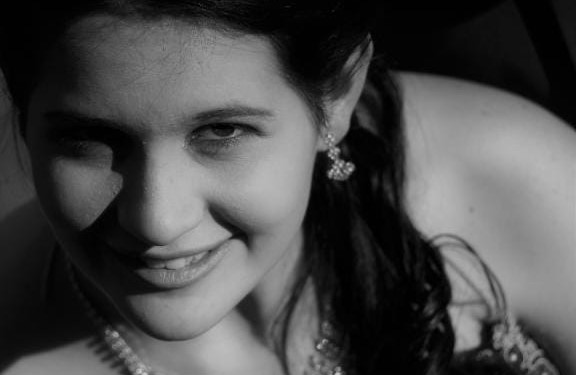
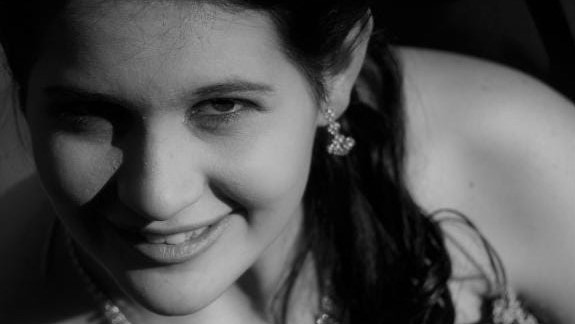
Background

diff --git a/Erica-Kruger-Resume7.html b/Erica-Kruger-Resume7.html
@@ -11,20 +11,25 @@
 
         <header> <!-- State what the webpage is about -->
             <center>
-                <p> <b> The full Curriculum Vitae / Resume of</b></p>
-                <picture id="photographOfMe">
-                    <source media="(max-width: 409px)" srcset="Images/Erica-small.jpg">
-                    <source media="(max-width: 949px)" srcset="Images/Erica-med.jpg">
-                    <img src="Images/Erica-Large.jpg" alt="Photograph of Erica Kruger" >
-                </picture>
-                
-               
-                     <h1 class="headerA">Erica&nbspKruger </h1>    
+                <div>
+                    <p> <b> The full Curriculum Vitae / Resume of</b></p>
+                </div>
+                <div>
+                    <picture id="photographOfMe">
+                        <source media="(max-width: 409px)" srcset="Images/Erica-small.jpg" width="70%">
+                        <source media="(max-width: 949px)" srcset="Images/Erica-med.jpg" width="70%">
+                        <img src="Images/Erica-Large.jpg" alt="Photograph of Erica Kruger" width="70%" >
+                    </picture>
+                </div>
+               <div>
+                <h1 class="headerA">Erica&nbspKruger </h1>
+               </div>
+                          
              </center>
-        </header>
-       
 
-        <article id="sideMenu"> <!-- Sidebar for easy navigation throughout webpage -->
+        </header>
+
+        <article id="sideMenu"> <!-- Sidebar for easy navigation throughout webpage --> 
 
             
            <center> <h3>Page&nbspIndex</h3></center>
@@ -39,6 +44,7 @@
             </nav>
         </article>
 
+    
     <main>   
 
         <section id= "personalInformation">   <!-- EXTRA ... About -->
@@ -216,7 +222,7 @@
 <a  target="_blank" href="mailto: ericakruger600@gmail.com? subject = Feedback regarding application = message"><img class="icons" src= "Images/gmail.png" alt="gmail"></a>
 <!-- Email address and subject -->
     </article>
-</center>
+</center> 
 </footer>
 
     </body>

diff --git a/Style/resumeStylesheet.css b/Style/resumeStylesheet.css
@@ -4,8 +4,8 @@ body{  /* Content to display more clearly */
    
 
     main{  /* Seperate content from other semantic elements */
-        padding-left: 5%;
-        padding-right: 1%;
+        padding-left: 7%;
+        padding-right: 2%;
         font-family: Arial, Helvetica, sans-serif;
         font-size: 20px;
         border-style: solid;
@@ -50,7 +50,7 @@ body{  /* Content to display more clearly */
     color: rgb(32, 2, 2);
     height :1mm ;
     width: 80px;
-    padding-bottom: 3%;
+    padding-bottom: 5%;
     line-break: auto;}
     
 .websiteStyle{ /* Websites to appear different than text content */
@@ -73,35 +73,32 @@ a{
 }
 
 section { /* Visibly acknowlage each section of content provided */
-    padding-bottom: 2px;
+    padding-bottom: 4px;
     background-color: rgba(211, 211, 211, 0.358);
 }
 
 
 header{ 
-    padding-top: 4px;
+    padding-top: 5px;
     background-color: rgba(138, 3, 53, 0.704) !important;
-    padding-bottom: 5px;
+    padding-bottom: 8px;
     border: black;
     border-style: double;
     border-width: 8px;
     font-family: 'Franklin Gothic Medium', 'Arial Narrow', Arial, sans-serif;
 }
 
-#photograph { /* Styling for Headshot */
-    border-radius: 50%;
-    border: solid;
-    border-left: rgb(48, 1, 48);
-    border-width: 10px;
-    width: 20%;
-    height: 20%;
+#photographOfMe { /* Styling for Headshot */
+    background-color: black;
+    width: 100%;
+    height: 100%;
 }
 
 
 footer{
-    padding-top: 4px;
+    padding-top: 5px;
     background-color: rgba(138, 3, 53, 0.704) !important;
-    padding-bottom: 3px;
+    padding-bottom: 4px;
     border: black;
     border-style: double;
     border-width: 8px;
